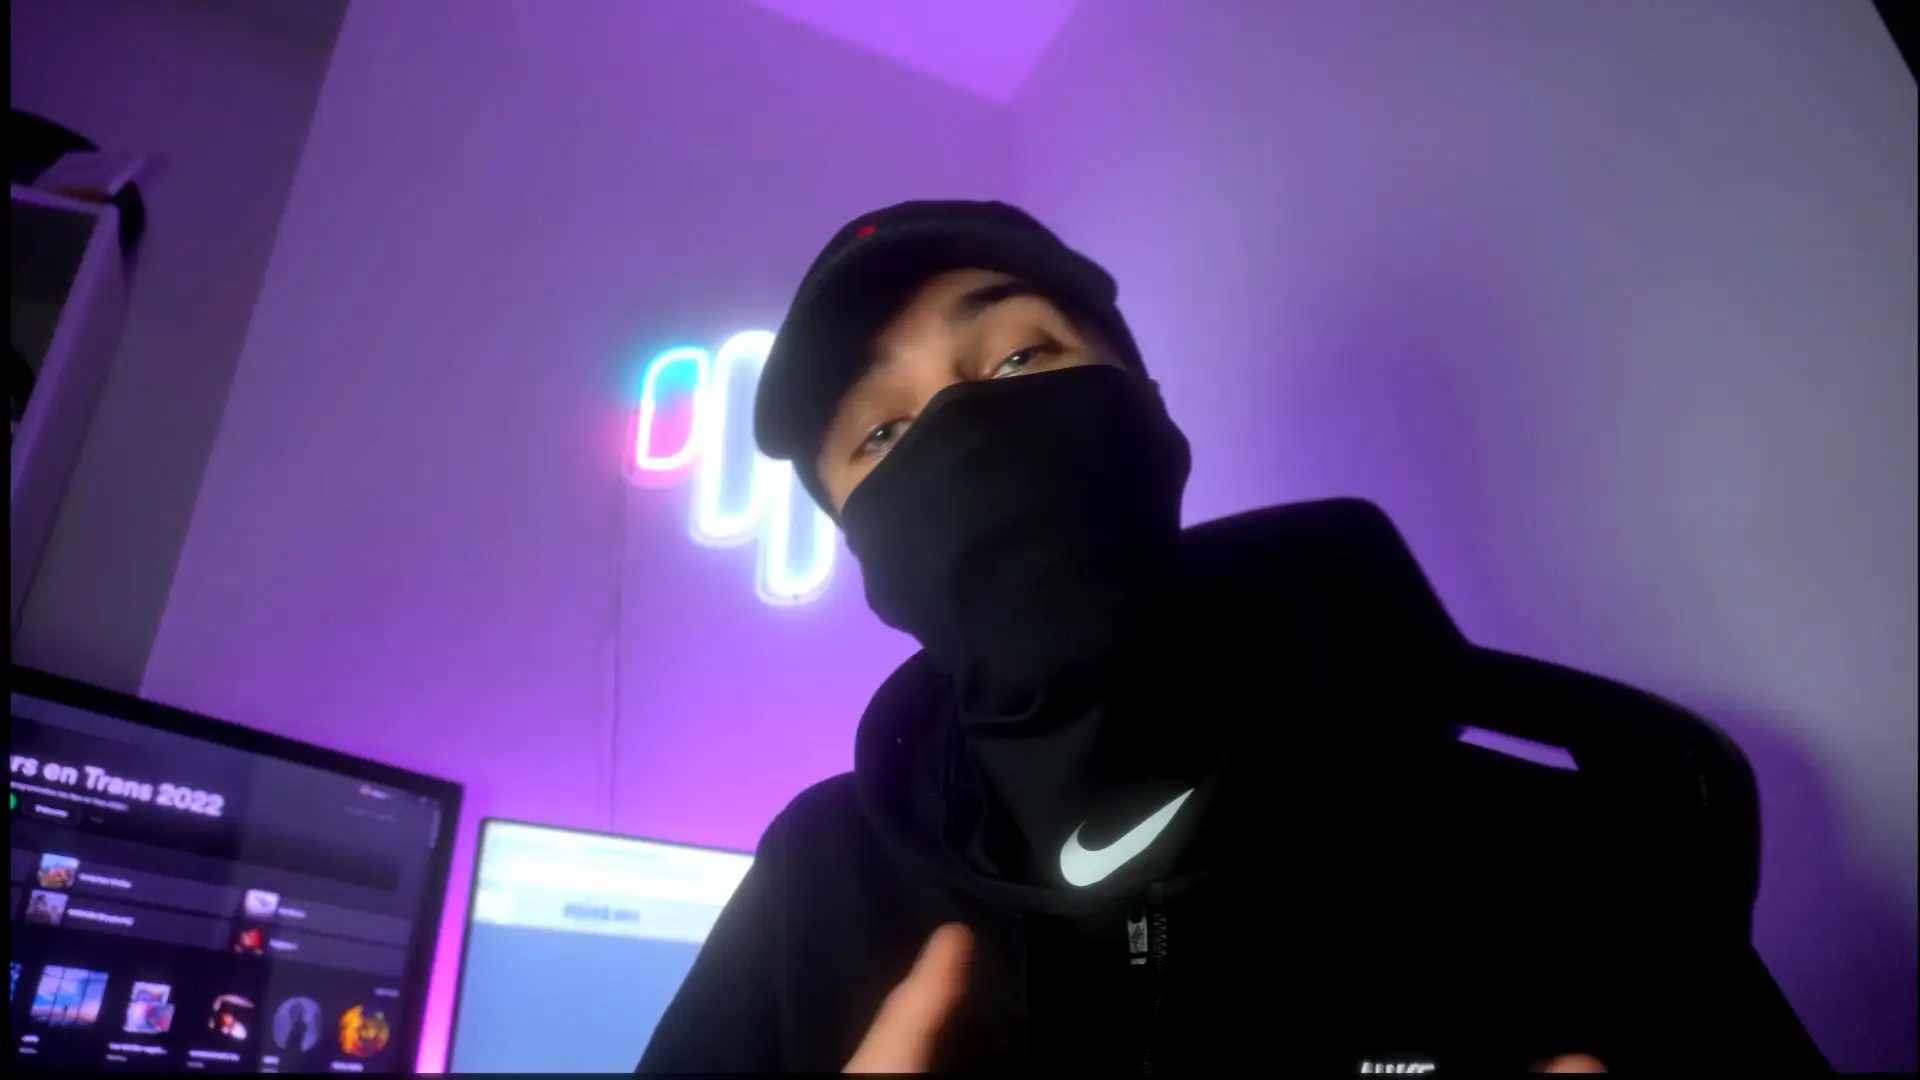
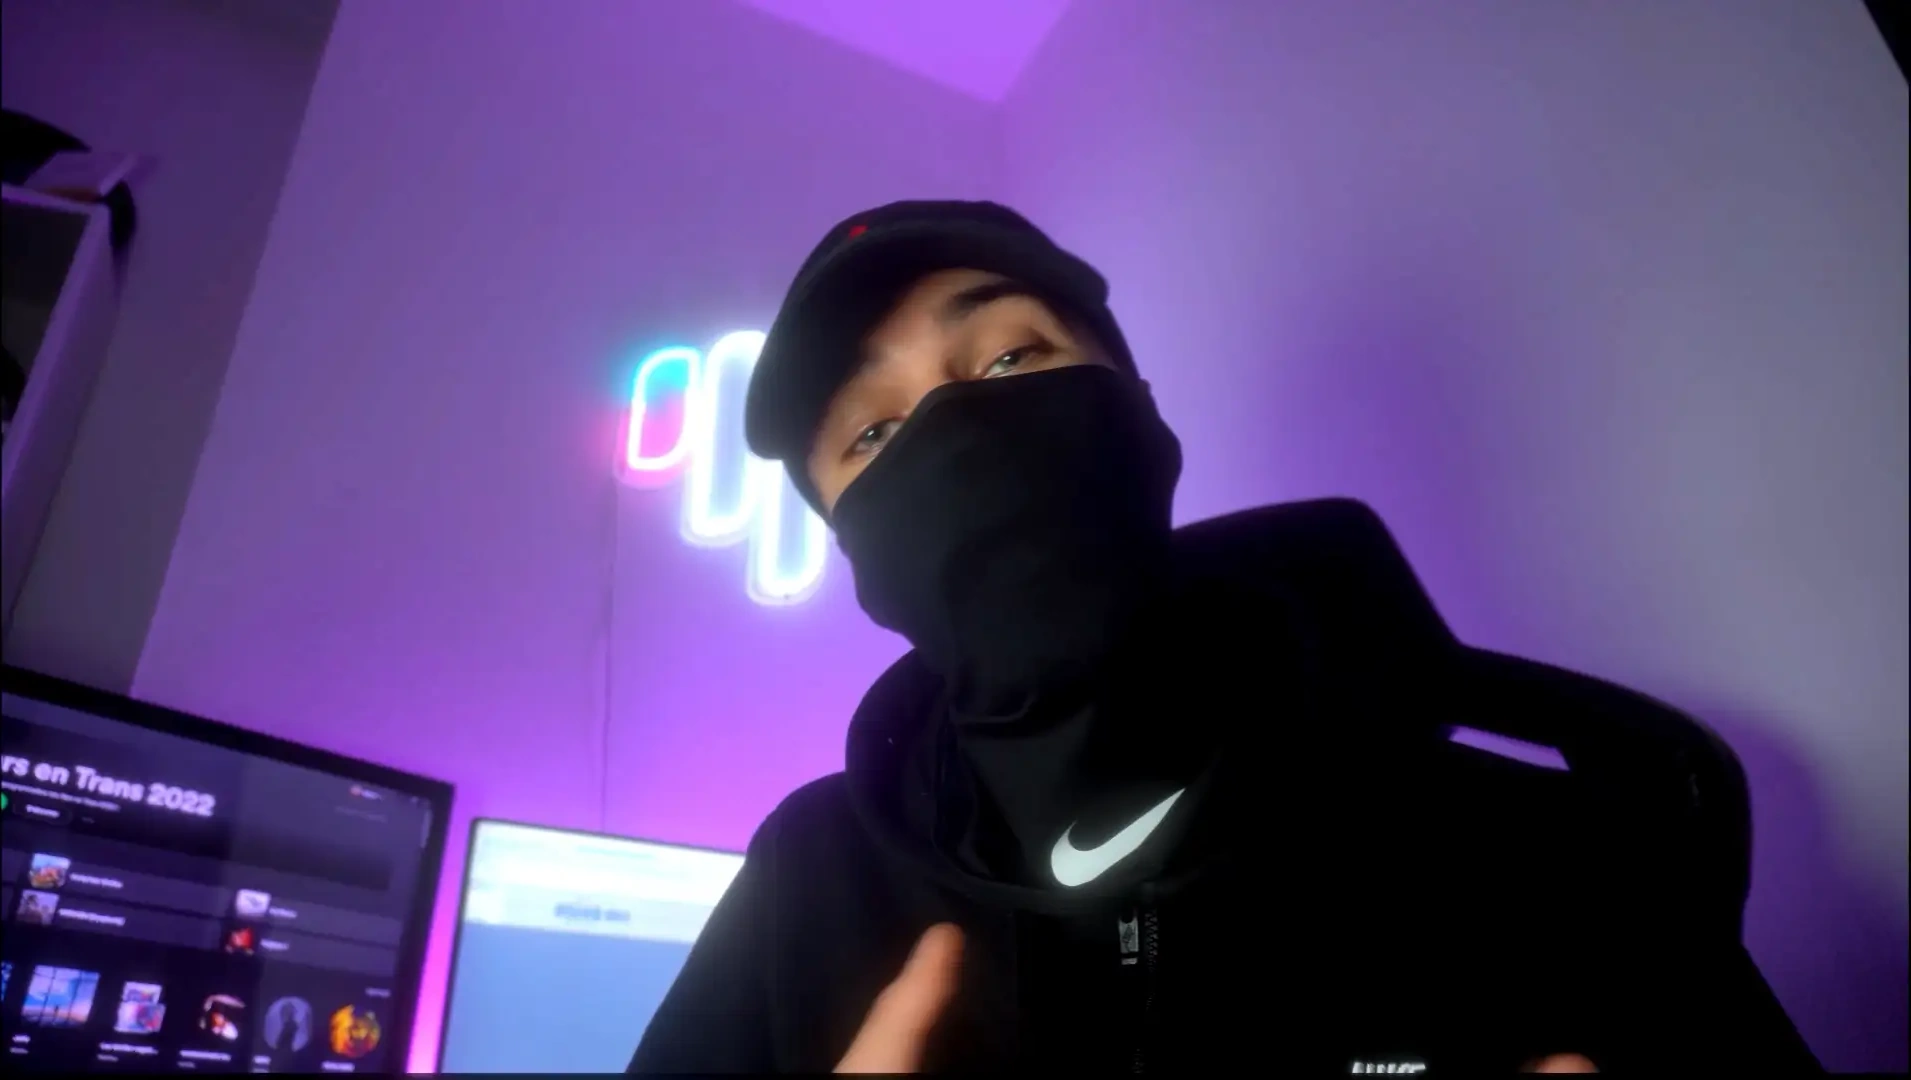
update / fix

diff --git a/src/pages/Jd/Jd.jsx b/src/pages/Jd/Jd.jsx
@@ -10,8 +10,33 @@ import carpentry from '../../assets/jd/carpentry.webp'
 import pp from '../../assets/jd/pp.webp'
 import ReactPlayer from 'react-player'
 import { useTranslation } from 'react-i18next'
+import { useCallback } from 'react';
+import { throttle } from '../../utils/throttle';
 
 export const Jd = () => {
+    const BasePos = `perspective(1000px) rotateX(0deg) rotateY(0deg) scale3d(1, 1, 1)`;
+    // eslint-disable-next-line react-hooks/exhaustive-deps
+    const onMouseMove = useCallback(throttle((e, name) => {
+            const card = e.currentTarget;
+            const box = card.getBoundingClientRect();
+            const x = e.clientX - box.left;
+            const y = e.clientY - box.top;
+            const centerX = box.width / 2;
+            const centerY = box.height / 2;
+            const rotateX = (y - centerY) / 4;
+            const rotateY = (centerX - x) / 4;
+            let s = `perspective(1000px) rotateX(${rotateX}deg) rotateY(${ name.includes("L") ? rotateY : -rotateY}deg) scale3d(1, 1, 1)`;
+            card.style.transform = s;
+        }, 100),
+        []
+    )
+  
+    const onMouseLeave = (event) => {
+        event.currentTarget.style.transform = BasePos;
+    }
+  
+    const trans = "all 400ms cubic-bezier(0.03, 0.98, 0.52, 0.99) 0s"
+
     const { t } = useTranslation()
     return (
         <StyledJd>
@@ -24,15 +49,15 @@ export const Jd = () => {
                 <div className='presentation'>
                     <h1>{t('jd.title')}</h1>
                     <div className='video'>
-                        <ReactPlayer width='100%' height='100%' url='https://youtu.be/WbvqtvnWBZs' />
+                        <ReactPlayer width='100%' height='100%' url='https://youtu.be/WbvqtvnWBZs' controls={true}/>
                     </div>
                     <p>{t('jd.description')}</p>
                 </div>
                 <div className='deco'>
-                    <img className='poster1' src={poster2} alt="poster" />
+                    <img className='poster1' src={poster2} alt="poster" style={{transition: trans}} onMouseMove={(e) => onMouseMove(e, 'posterL')} onMouseLeave={(e)=> onMouseLeave(e)} />
                     <div className='sub-deco'>
-                        <img src={poster3} alt="poster" />
-                        <img src={poster1} alt="poster" />
+                        <img src={poster3} alt="poster" style={{transition: trans}} onMouseMove={(e) => onMouseMove(e, 'posterL')} onMouseLeave={(e)=> onMouseLeave(e)} />
+                        <img src={poster1} alt="poster" style={{transition: trans}} onMouseMove={(e) => onMouseMove(e, 'posterR')} onMouseLeave={(e)=> onMouseLeave(e)} />
                     </div>
                 </div>
                 <img className='deco2 wave' src={waterWave} alt="vague" />

diff --git a/src/pages/Jd/StyledJd.js b/src/pages/Jd/StyledJd.js
@@ -35,7 +35,7 @@ const StyledJd = styled.section`
             position: absolute;
             top: 0;
             left: 0;
-            background-color: rgba(0, 0, 0, 0.6);
+            background-color: rgba(0, 0, 0, 0.8);
             z-index: 0;
         }
         .carpentry{
@@ -77,8 +77,13 @@ const StyledJd = styled.section`
                 font-weight: 300;
                 color: #FFFFFF;
                 text-align: justify;
-                padding-bottom: 19vw;
                 text-shadow: 0px 0px 10px #000000;
+                background-color: rgba(0, 0, 0, 0.55);
+                height: 100%;
+                margin-bottom: 19vw;
+                padding: 0.5vw;
+                border-radius: 12px;
+                height: 100%;
             }
         }
         .deco{
@@ -96,11 +101,13 @@ const StyledJd = styled.section`
                 margin: 24px 24px;
             }
             .poster1{
-                width: 50%;
-                height: auto;
-                box-shadow: 0px 0px 10px #000000;
+                    display: block;
+                    width: 50%;
+                    height: auto;
+                    box-shadow: 0px 0px 10px #000000;
             }
             .sub-deco{
+                position: relative;
                 width: 100%;
                 display: flex;
                 align-items: center;
@@ -124,7 +131,7 @@ const StyledJd = styled.section`
             max-width: 1027px;
         }
         .wave{
-            rotate: -23deg;
+            rotate: -17deg;
             width: 44%;
             left: 9%;
             bottom: calc(0px - 15%);

diff --git a/src/pages/Wrldmag/Wrldmag.jsx b/src/pages/Wrldmag/Wrldmag.jsx
@@ -8,8 +8,31 @@ import { useTranslation } from "react-i18next";
 import { StyledWrldmag } from "./StyledWrldmag";
 
 export const Wrldmag = () => {
-
+  const canvas = document.createElement("canvas");
+  const context = canvas.getContext('2d');
   const {t} = useTranslation()
+  const mouseMove = (e) => {//little hover effect
+    const logo = e.currentTarget;
+    var rect = logo.getBoundingClientRect();
+    var relX = e.clientX - rect.left;
+    var relY = e.clientY - rect.top;
+    if (canvas.id != "adapted") {
+      canvas.id = "adapted";
+      canvas.width = logo.width;
+      canvas.height = logo.height;
+      context.drawImage(logo, 0, 0, logo.width, logo.height);
+    }
+    var data = context.getImageData(relX, relY, 1, 1);
+    if (data.data[3] > 30) {
+      logo.classList.add("js_hover");
+    } else {
+      logo.classList.remove("js_hover");
+    }
+  };
+  
+  const mouseLeave = (e) => {
+    e.currentTarget.classList.remove("js_hover");
+  }
 
   return (
     <StyledWrldmag>
@@ -25,7 +48,7 @@ export const Wrldmag = () => {
             <img src={image1} className="image-center" alt="" />
           </div>
             <div className="wrldmag-container">
-              <img className="wrldmag-large" src={wrldmagLarge} alt="" />
+              <img className="wrldmag-large" src={wrldmagLarge} alt="logo worldmag" onMouseMove = {(e) => mouseMove(e)} onMouseLeave={(e) => mouseLeave(e)}/>
             </div>
             <div className="bg-bottom">
               <img src={bgBottom} alt="" />

diff --git a/src/pages/Pg/Pg.jsx b/src/pages/Pg/Pg.jsx
@@ -22,18 +22,18 @@ export const Pg = () => {
                 <div className='examples'>
                     <div className='container'>
                         <div className='video'>
-                            <ReactPlayer width='100%' height='100%' url='https://youtu.be/JmCJ09jtXm4' />
+                            <ReactPlayer width='100%' height='100%' url='https://youtu.be/JmCJ09jtXm4' controls={true}/>
                         </div>
                         <div className='video'>
-                            <ReactPlayer width='100%' height='100%' url='https://youtu.be/FSmdu4edODE' />
+                            <ReactPlayer width='100%' height='100%' url='https://youtu.be/FSmdu4edODE' controls={true}/>
                         </div>
                     </div>
                     <div className='container'>
                         <div className='video'>
-                            <ReactPlayer width='100%' height='100%' url='https://youtu.be/2iA7idY8bds' />
+                            <ReactPlayer width='100%' height='100%' url='https://youtu.be/2iA7idY8bds' controls={true}/>
                         </div>
                         <div className='video'>
-                            <ReactPlayer width='100%' height='100%' url='https://youtu.be/EDgTQt3AmTM' />
+                            <ReactPlayer width='100%' height='100%' url='https://youtu.be/EDgTQt3AmTM' controls={true}/>
                         </div>
                     </div>
                 </div>

diff --git a/src/pages/Gg/StyledGg.js b/src/pages/Gg/StyledGg.js
@@ -94,10 +94,21 @@ const StyledGg = styled.section`
             height: auto;
             z-index: 2;
         }
+        :where(.logo-top, .logo-middle){
+            transition: 400ms cubic-bezier(0.03, 0.98, 0.52, 0.99) 0s;
+        }
+        .logo-top:hover:hover{
+            transform: scale(1.1);
+        }
+        .logo-middle:hover{
+            transform: translate(-50%, -50%) scale(1.1);
+        }
         .background{
             position: absolute;
-            bottom: -5.2vw;
-            left: -3.3vw;
+            // bottom: -5.2vw;
+            // left: -3.3vw;
+            bottom: -4.2vw;
+            left: -2.3vw;
             width: auto;
             height: 100%;
             z-index: 0;
@@ -131,7 +142,7 @@ const StyledGg = styled.section`
             }
             .logo-middle{
                 width: 90%;
-                position: static;
+                position: absolute;
                 transform: none;
             }
             .background{
@@ -139,7 +150,7 @@ const StyledGg = styled.section`
             }
             .logo-top{
                 width: 50%;
-                position: static;
+                position: absolute;
                 margin: 24px;
             }
             .left-container{

diff --git a/src/pages/Wrldmag/StyledWrldmag.js b/src/pages/Wrldmag/StyledWrldmag.js
@@ -63,6 +63,10 @@ const StyledWrldmag = styled.section`
         @media (max-width: 1400px) {
           width: 130px;
         }
+        transition: 0.3s;
+      }
+      .logo:hover {
+        transform: scale(1.1);
       }
     }
     .second-wrapper {
@@ -90,6 +94,10 @@ const StyledWrldmag = styled.section`
           width: 100%;
           height: auto;
           object-fit: cover;
+          transition: 0.3s ease;
+        }
+        img:hover{
+          transform: translateY(-1vw);
         }
       }
         .wrldmag-container {
@@ -97,9 +105,13 @@ const StyledWrldmag = styled.section`
           z-index: 1;
           width: 100%;
           top: 4vw;
-          img {
+          .wrldmag-large {
             width: 100%;
             height: auto;
+            transition: 0.3s;
+          }
+          .wrldmag-large.js_hover {
+            transform: scale3d(1.1, 1.1, 2);
           }
         }
 

diff --git a/src/pages/Olympics/StyledOlympics.js b/src/pages/Olympics/StyledOlympics.js
@@ -25,6 +25,10 @@ const StyledOlympics = styled.section`
         .deco{
             width: 100%;
             height: auto;
+            transition: transform 0.3s;
+        }
+        .deco:hover{
+            transform: scale(1.1);
         }
     }
     .video{
@@ -37,7 +41,11 @@ const StyledOlympics = styled.section`
     }
     .text-container{
         width: 23%;
+        display:flex;
+        flex-direction: column;
+        height: 100%;
         p{
+            margin: auto;
             font-size: 1vw;
             font-family: lexend;
             font-weight: 600;
@@ -50,7 +58,13 @@ const StyledOlympics = styled.section`
         img{
             width: 100%;
             height: auto;
+            margin: auto;
+            transition: transform 0.3s;
         }
+        img:hover{
+            transform: scale(1.1);
+        }
+
     }
 
     @media (max-width: 900px) {

diff --git a/src/pages/Mahdiba/StyledMahdibaPage.js b/src/pages/Mahdiba/StyledMahdibaPage.js
@@ -13,6 +13,12 @@ const StyledMahdibaPage = styled.section`
   @media (max-width: 1000px) {
     padding-top: calc(68px + 30px);
   }
+  :where(.glasses,.diamond){
+    transition:all 400ms cubic-bezier(0.03, 0.98, 0.52, 0.99) 0s
+  }
+  :where(.glasses,.diamond):hover{
+    transform:scale(1.1)
+  }
 `;
 
 export { StyledMahdibaPage };
